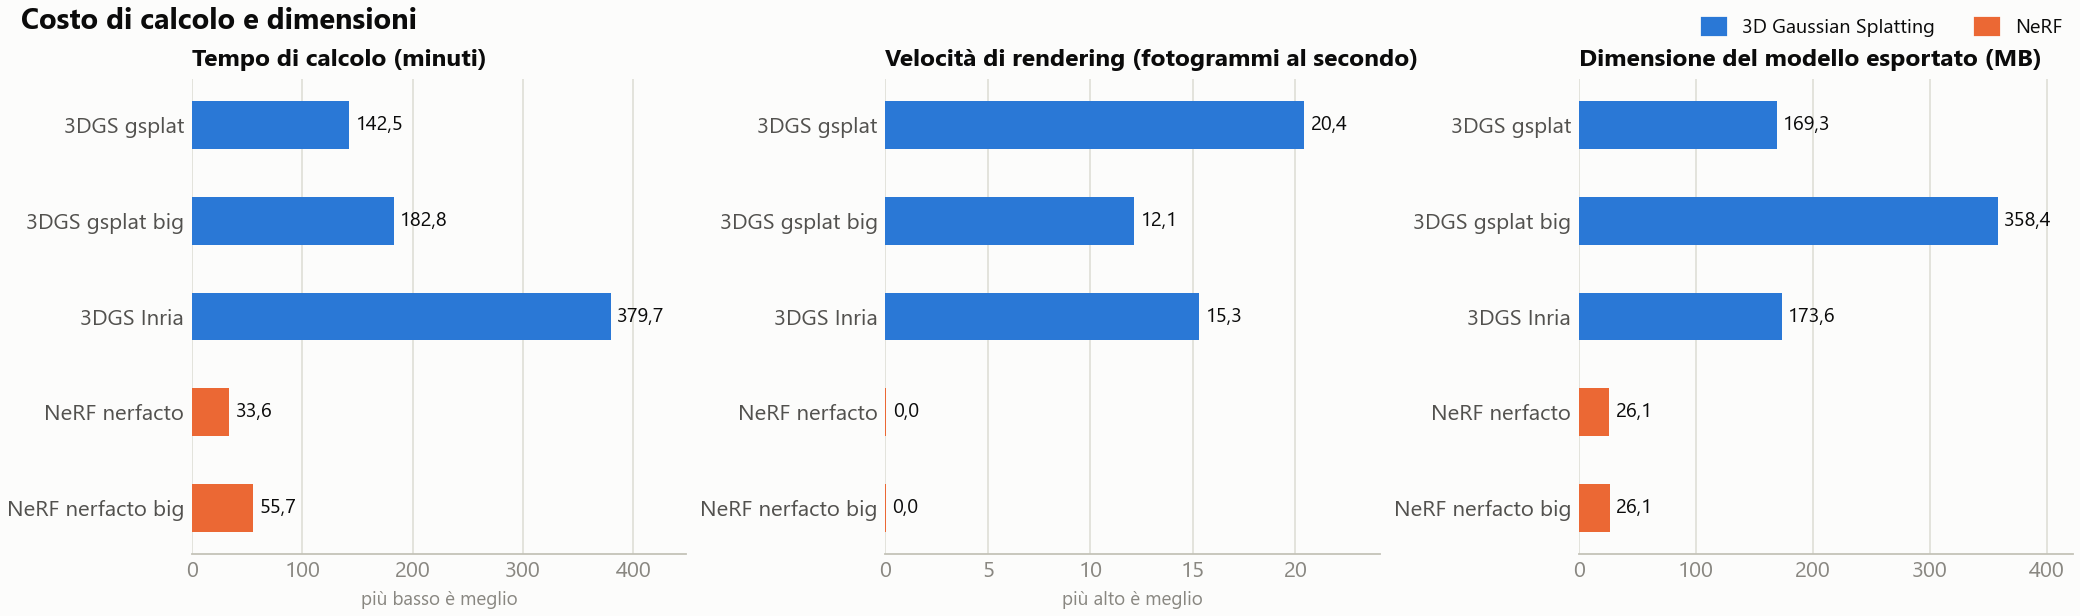
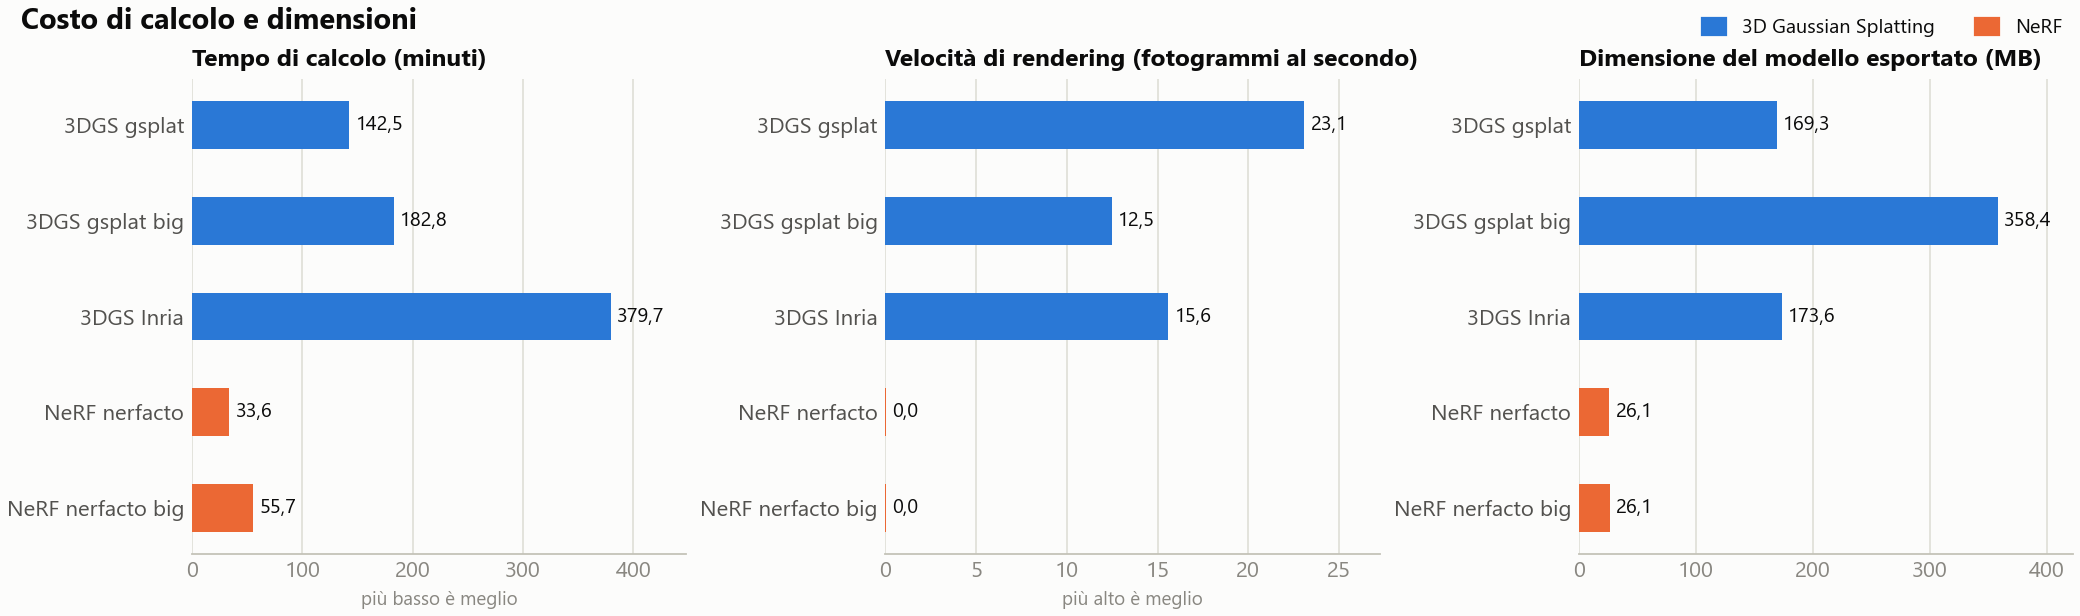
Sito: esposizione e confronto geometrico (0.5.0)

diff --git a/report/index.html b/report/index.html
@@ -13,17 +13,17 @@
  th { background: #f0efec; } td { font-variant-numeric: tabular-nums; }
 </style></head><body><main>
 <h1>Confronto dei metodi di ricostruzione 3D — progetto «foto»</h1>
-<p class="lead">Generato il 22/10/2026 alle 00:53 con la versione 0.4.0. Tutti i metodi usano lo stesso
+<p class="lead">Generato il 22/10/2026 alle 15:47 con la versione 0.4.1. Tutti i metodi usano lo stesso
 allineamento delle camere, le stesse foto di training e di test e la stessa risoluzione; le metriche sono calcolate
 con lo stesso codice sulle viste escluse dal training.</p>
 <h2>Qualità</h2><img src="figure/qualita.png" alt="Grafici a barre di PSNR, SSIM e LPIPS per metodo">
 <h2>Costo</h2><img src="figure/costo.png" alt="Grafici a barre di tempo di calcolo, velocità di rendering e dimensione per metodo">
 <h2>Qualità rispetto al tempo</h2><img src='figure/qualita_tempo.png' alt='PSNR rispetto al tempo di training' style='max-width:760px'>
-<h2>Misure</h2><div class="scroll"><table><thead><tr><th>Metodo</th><th>Iterazioni</th><th>Training (min)</th><th>PSNR (dB)</th><th>SSIM</th><th>LPIPS</th><th>Rendering (fps)</th><th>Gaussiane / punti</th><th>Modello esportato (MB)</th></tr></thead><tbody><tr><td>Gaussian splatting (gsplat, splatfacto)</td><td>30.000</td><td>142,5</td><td>19,31</td><td>0,6289</td><td>0,6837</td><td>20,4</td><td>716.004</td><td>169,3</td></tr><tr><td>Gaussian splatting, alta qualità (gsplat, splatfacto-big)</td><td>30.000</td><td>182,8</td><td>19,25</td><td>0,6377</td><td>0,6677</td><td>12,1</td><td>1.515.439</td><td>358,4</td></tr><tr><td>Gaussian splatting originale (Inria)</td><td>30.000</td><td>379,7</td><td>19,66</td><td>0,6141</td><td>0,7014</td><td>15,3</td><td>734.068</td><td>173,6</td></tr><tr><td>NeRF (nerfacto)</td><td>30.000</td><td>33,6</td><td>17,92</td><td>0,5619</td><td>0,7557</td><td>0,0</td><td>1.014.087</td><td>26,1</td></tr><tr><td>NeRF, alta qualità (nerfacto-big)</td><td>30.000</td><td>55,7</td><td>18,96</td><td>0,5783</td><td>0,7242</td><td>0,0</td><td>1.015.428</td><td>26,1</td></tr></tbody></table></div>
+<h2>Misure</h2><div class="scroll"><table><thead><tr><th>Metodo</th><th>Iterazioni</th><th>Training (min)</th><th>PSNR (dB)</th><th>SSIM</th><th>LPIPS</th><th>Rendering (fps)</th><th>Gaussiane / punti</th><th>Modello esportato (MB)</th></tr></thead><tbody><tr><td>Gaussian splatting (gsplat, splatfacto)</td><td>30.000</td><td>142,5</td><td>19,31</td><td>0,6289</td><td>0,6837</td><td>23,1</td><td>716.004</td><td>169,3</td></tr><tr><td>Gaussian splatting, alta qualità (gsplat, splatfacto-big)</td><td>30.000</td><td>182,8</td><td>19,25</td><td>0,6377</td><td>0,6677</td><td>12,5</td><td>1.515.439</td><td>358,4</td></tr><tr><td>Gaussian splatting originale (Inria)</td><td>30.000</td><td>379,7</td><td>19,66</td><td>0,6141</td><td>0,7014</td><td>15,6</td><td>734.068</td><td>173,6</td></tr><tr><td>NeRF (nerfacto)</td><td>30.000</td><td>33,6</td><td>17,92</td><td>0,5619</td><td>0,7557</td><td>0,0</td><td>1.014.087</td><td>26,1</td></tr><tr><td>NeRF, alta qualità (nerfacto-big)</td><td>30.000</td><td>55,7</td><td>18,96</td><td>0,5783</td><td>0,7242</td><td>0,0</td><td>1.015.428</td><td>26,1</td></tr></tbody></table></div>
 <p class="note">Il tempo di training è la durata dell'intero comando, caricamento dei dati incluso. La velocità di rendering
 è misurata sulle viste di test, alla risoluzione indicata sotto. La tabella completa di tutti i run è in
 <a href="confronto.csv">confronto.csv</a>.</p>
-<p class='note'>Non inclusi, perché fatti in condizioni diverse (risoluzione, iterazioni, correzione delle pose o aspetto per foto): Gaussian splatting originale (Inria) del 2026-10-22; Gaussian splatting (gsplat, splatfacto) del 2026-10-22; Gaussian splatting originale (Inria) del 2026-10-21; Gaussian splatting (gsplat, splatfacto) del 2026-10-21; Gaussian splatting originale (Inria) del 2026-10-21; Gaussian splatting (gsplat, splatfacto) del 2026-10-21; Gaussian splatting originale (Inria) del 2026-10-21; Gaussian splatting (gsplat, splatfacto) del 2026-10-21; NeRF (nerfacto) del 2026-10-21. Sono nella tabella completa.</p><p class='note'>Foto lette dal disco durante il training (non entravano in memoria): Gaussian splatting (gsplat, splatfacto); Gaussian splatting, alta qualità (gsplat, splatfacto-big); Gaussian splatting originale (Inria); NeRF (nerfacto); NeRF, alta qualità (nerfacto-big). Il loro tempo di training include la lettura.</p>
+<p class='note'>Non inclusi, perché fatti in condizioni diverse (risoluzione, iterazioni, correzione delle pose o aspetto per foto): NeRF (nerfacto) del 2026-10-22; NeRF (nerfacto) del 2026-10-22; Gaussian splatting originale (Inria) del 2026-10-22; Gaussian splatting (gsplat, splatfacto) del 2026-10-22; Gaussian splatting originale (Inria) del 2026-10-21; Gaussian splatting (gsplat, splatfacto) del 2026-10-21; Gaussian splatting originale (Inria) del 2026-10-21; Gaussian splatting (gsplat, splatfacto) del 2026-10-21; Gaussian splatting originale (Inria) del 2026-10-21; Gaussian splatting (gsplat, splatfacto) del 2026-10-21; NeRF (nerfacto) del 2026-10-21. Sono nella tabella completa.</p><p class='note'>Foto lette dal disco durante il training (non entravano in memoria): Gaussian splatting (gsplat, splatfacto); Gaussian splatting, alta qualità (gsplat, splatfacto-big); Gaussian splatting originale (Inria); NeRF (nerfacto); NeRF, alta qualità (nerfacto-big). Il loro tempo di training include la lettura.</p>
 
 <h2>Viste di test a confronto</h2><img src='figure/vista_1.jpg' alt='Vista di test a confronto'><img src='figure/vista_2.jpg' alt='Vista di test a confronto'><img src='figure/vista_3.jpg' alt='Vista di test a confronto'>
 <h2>Differenze di processo</h2><div class="scroll"><table><thead><tr><th></th><th>3D Gaussian Splatting</th><th>NeRF</th></tr></thead><tbody><tr><td>Rappresentazione</td><td>Insieme esplicito di gaussiane 3D con posizione, forma, opacità e colore dipendente dalla direzione</td><td>Campo di radianza continuo codificato in una rete neurale</td></tr><tr><td>Punto di partenza</td><td>Nuvola sparsa dell&#x27;allineamento</td><td>Solo le pose delle camere</td></tr><tr><td>Ottimizzazione</td><td>Discesa del gradiente sui parametri delle gaussiane, con aggiunta e rimozione durante il training</td><td>Discesa del gradiente sui pesi della rete, campionando raggi dalle immagini</td></tr><tr><td>Rendering</td><td>Rasterizzazione, in tempo reale</td><td>Volumetrico lungo ogni raggio, non in tempo reale</td></tr><tr><td>Risultato</td><td>File .ply di gaussiane, modificabile (pulizia, ritaglio) e pubblicabile sul web</td><td>Pesi della rete; esportabile come nuvola di punti campionata</td></tr><tr><td>Geometria</td><td>Implicita nelle gaussiane; nessuna superficie</td><td>Densità volumetrica; superfici solo per estrazione</td></tr></tbody></table></div>

diff --git a/index.html b/index.html
@@ -17,6 +17,7 @@
    border-radius: 6px; margin-right: 10px; font-weight: 600; }
  a { color: var(--accent); } img { max-width: 100%; height: auto; border: 1px solid var(--line); border-radius: 6px; background: #fcfcfb; }
  .note { color: var(--muted); font-size: 14px; }
+ figure { margin: 0 0 18px; } figcaption { margin-top: 4px; }
  footer { margin-top: 48px; color: var(--muted); font-size: 13px; }
 </style></head><body><main>
 <h1>Arco di Traiano, Benevento: 3D Gaussian Splatting e NeRF a confronto</h1>
@@ -32,19 +33,19 @@ distribuiti come file.</p>
 <article class="card">
   <h3>Gaussian splatting (gsplat, splatfacto)</h3>
   <p class="nums">PSNR 19,31 dB · SSIM 0,629 · LPIPS 0,684<br>
-  training 2,4 h · 413.602 gaussiane</p>
+  training 2,4 h · 382.733 gaussiane</p>
   <p><span class="note">Visualizzazione 3D in preparazione.</span></p>
 </article>
 <article class="card">
   <h3>Gaussian splatting, alta qualità (gsplat, splatfacto-big)</h3>
   <p class="nums">PSNR 19,25 dB · SSIM 0,638 · LPIPS 0,668<br>
-  training 3,0 h · 831.037 gaussiane</p>
+  training 3,0 h · 662.297 gaussiane</p>
   <p><span class="note">Visualizzazione 3D in preparazione.</span></p>
 </article>
 <article class="card">
   <h3>Gaussian splatting originale (Inria)</h3>
   <p class="nums">PSNR 19,66 dB · SSIM 0,614 · LPIPS 0,701<br>
-  training 6,3 h · 427.204 gaussiane</p>
+  training 6,3 h · 327.317 gaussiane</p>
   <p><span class="note">Visualizzazione 3D in preparazione.</span></p>
 </article></div>
 
@@ -58,6 +59,16 @@ distribuiti come file.</p>
 <img src="report/figure/vista_2.jpg" alt="Vista di test 2">
 <img src="report/figure/vista_3.jpg" alt="Vista di test 3">
 
+<h2>Esposizione e geometria</h2>
+<figure><img src="figure/fig5c_esposizione.png" alt="Esposizione: le viste di test con un&#x27;esposizione lontana da quella tipica del rilievo hanno PSNR più basso per tutti i metodi, anche dopo la correzione del colore.">
+<figcaption class="note">Esposizione: le viste di test con un&#x27;esposizione lontana da quella tipica del rilievo hanno PSNR più basso per tutti i metodi, anche dopo la correzione del colore.</figcaption></figure>
+<figure><img src="figure/fig6_distanze.png" alt="Geometria: distanza di ogni punto dei modelli dalla nuvola densa della fotogrammetria (riferimento, non verità).">
+<figcaption class="note">Geometria: distanza di ogni punto dei modelli dalla nuvola densa della fotogrammetria (riferimento, non verità).</figcaption></figure>
+<figure><img src="figure/fig6b_distanze_pianta.png" alt="La stessa distanza vista dall&#x27;alto: i colori chiari sono i punti lontani dalla nuvola densa.">
+<figcaption class="note">La stessa distanza vista dall&#x27;alto: i colori chiari sono i punti lontani dalla nuvola densa.</figcaption></figure>
+<p class="note">Numeri, test statistici, effetto della risoluzione di training e limiti nella sezione
+<a href="https://github.com/Mr-Flower/studio-gaussian-splatting-laboratorio-ictbc#risultati">Risultati</a> del README.</p>
+
 <h2>Approfondimenti</h2>
 <ul>
  <li><a href="report/index.html">Report completo</a>: tabelle delle misure, differenze di processo, condizioni dell'esperimento.</li>
@@ -65,6 +76,6 @@ distribuiti come file.</p>
  <li><a href="https://github.com/Mr-Flower/studio-gaussian-splatting-laboratorio-ictbc">Codice, protocollo e risultati</a> (README con abstract e risultati dettagliati).</li>
 </ul>
 
-<footer>Generato il 22/10/2026 con Studio Gaussian Splatting 0.4.1 (progetto «foto»).
+<footer>Generato il 23/10/2026 con Studio Gaussian Splatting 0.5.0 (progetto «foto»).
 Codice con licenza Apache 2.0; il codice 3D Gaussian Splatting di Inria ha una licenza propria, solo per ricerca non commerciale.</footer>
 </main></body></html>
